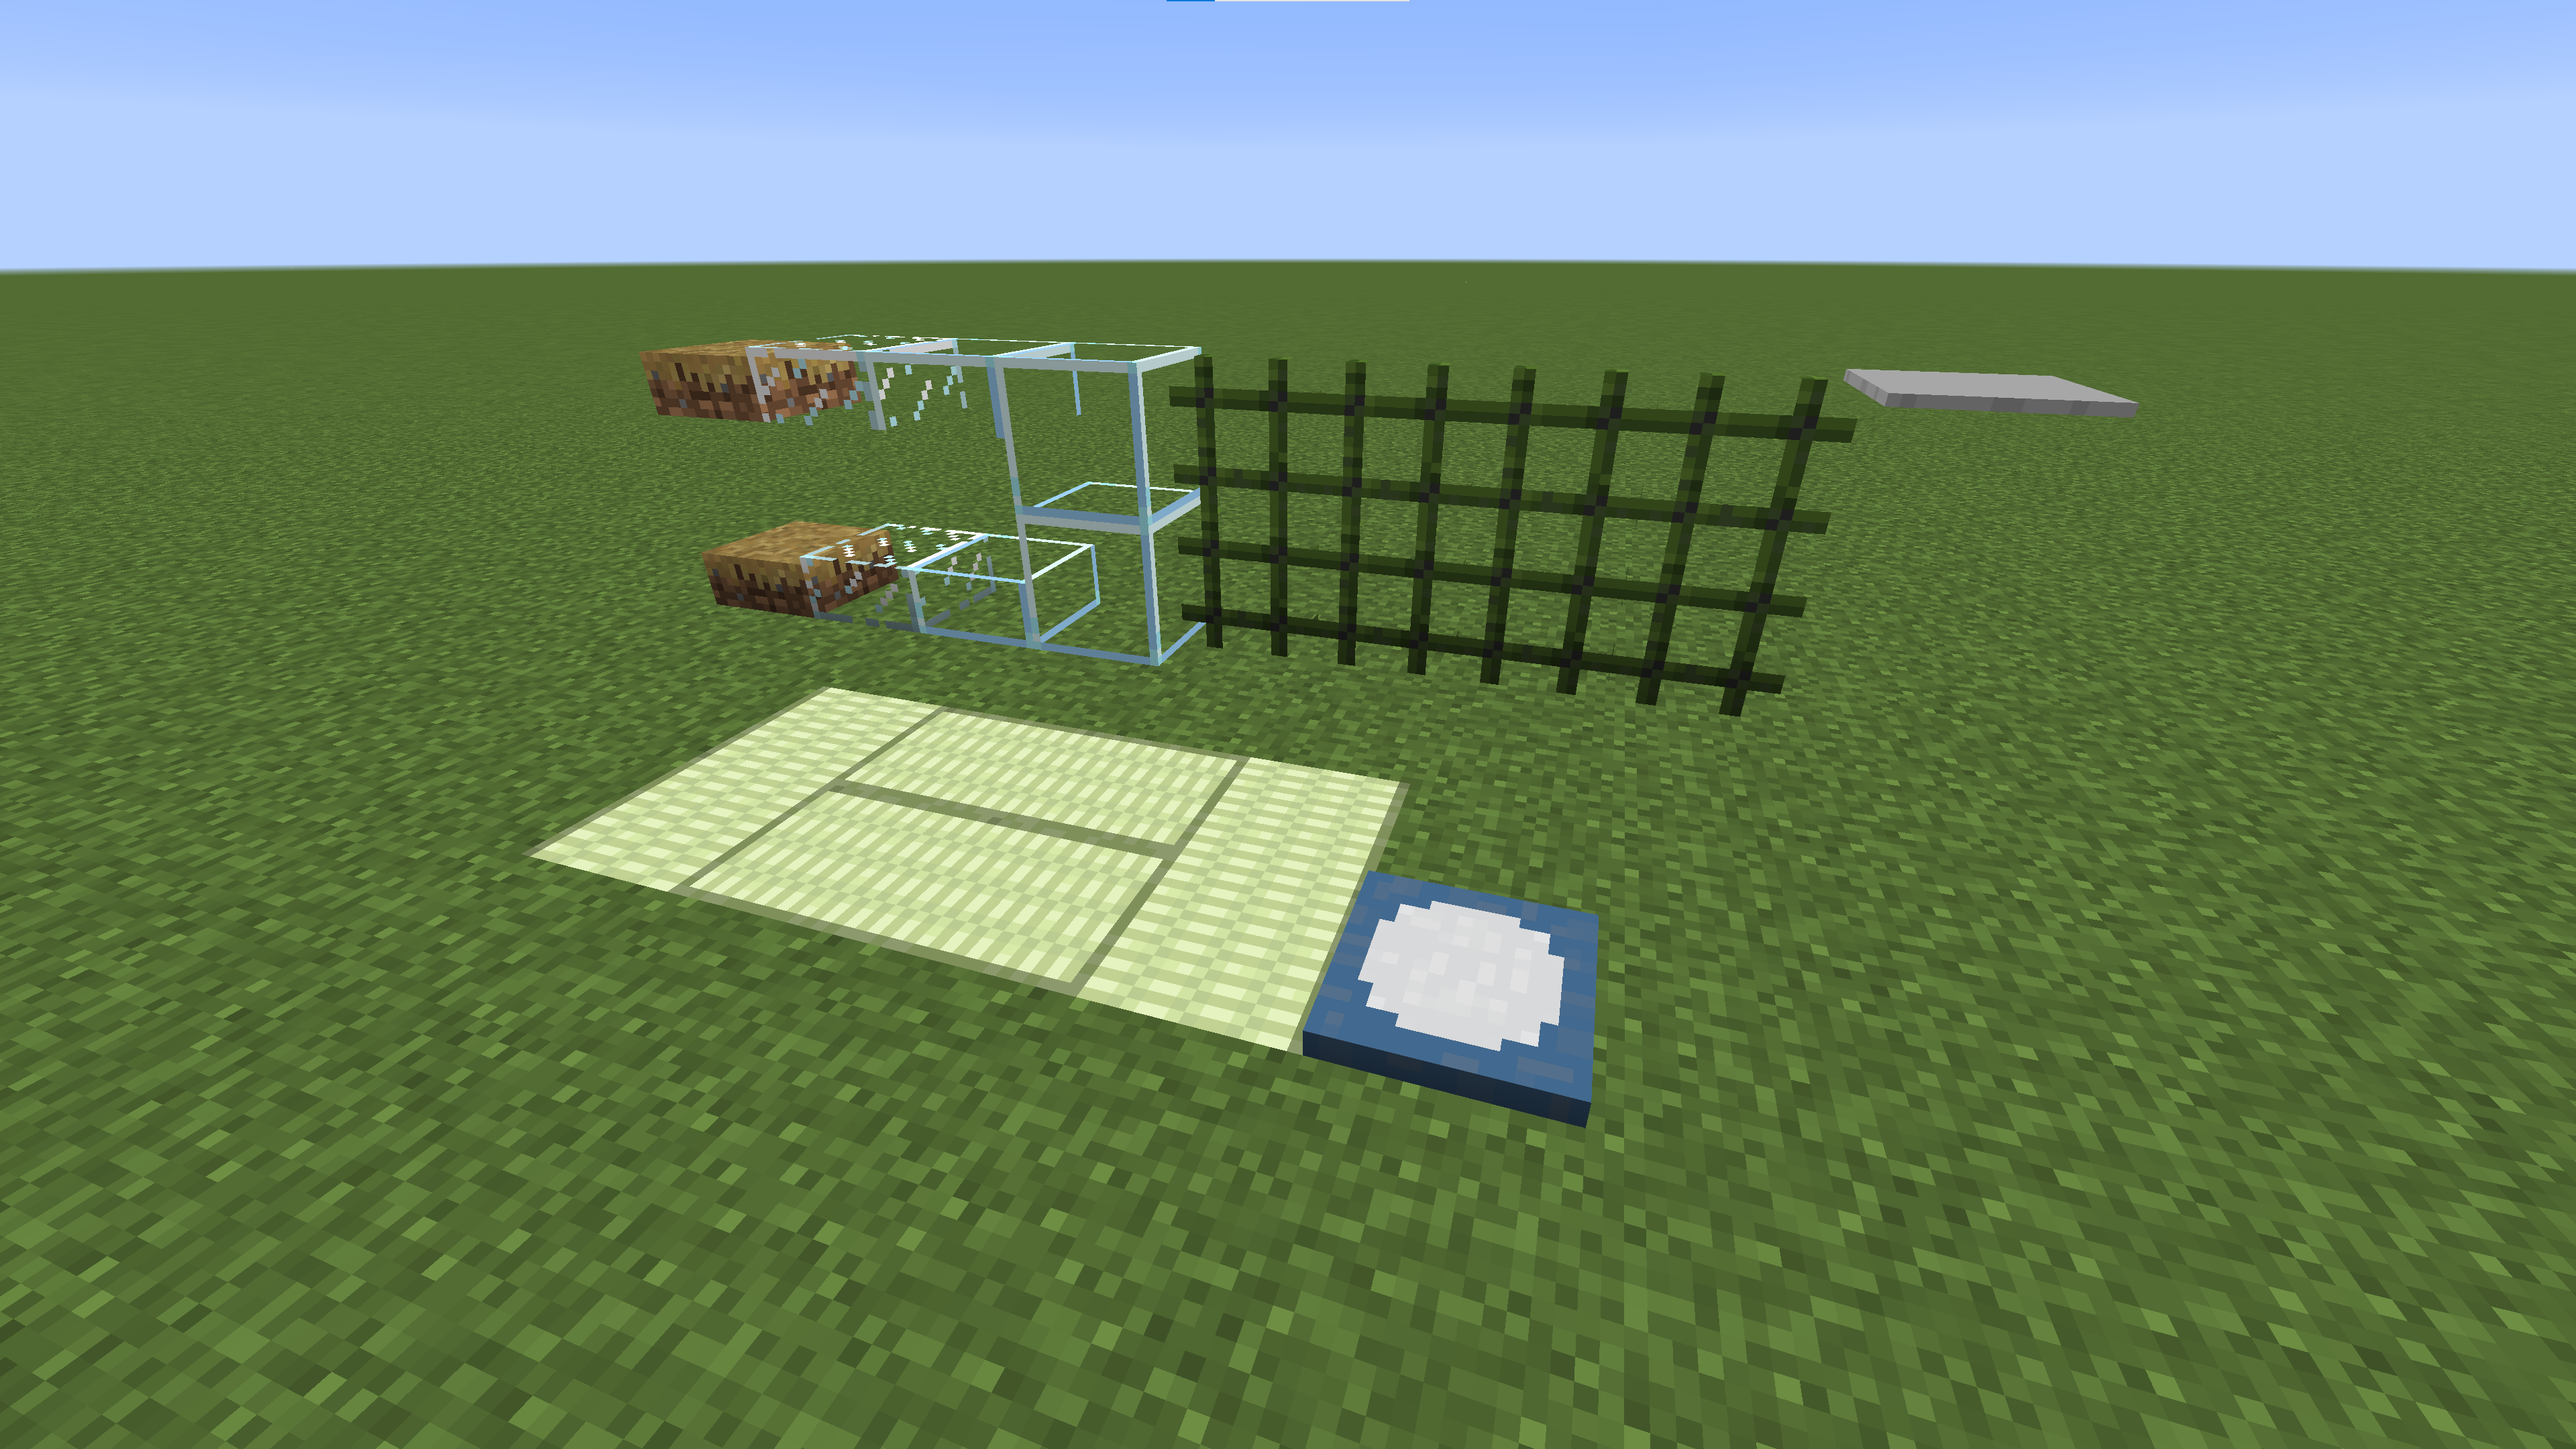
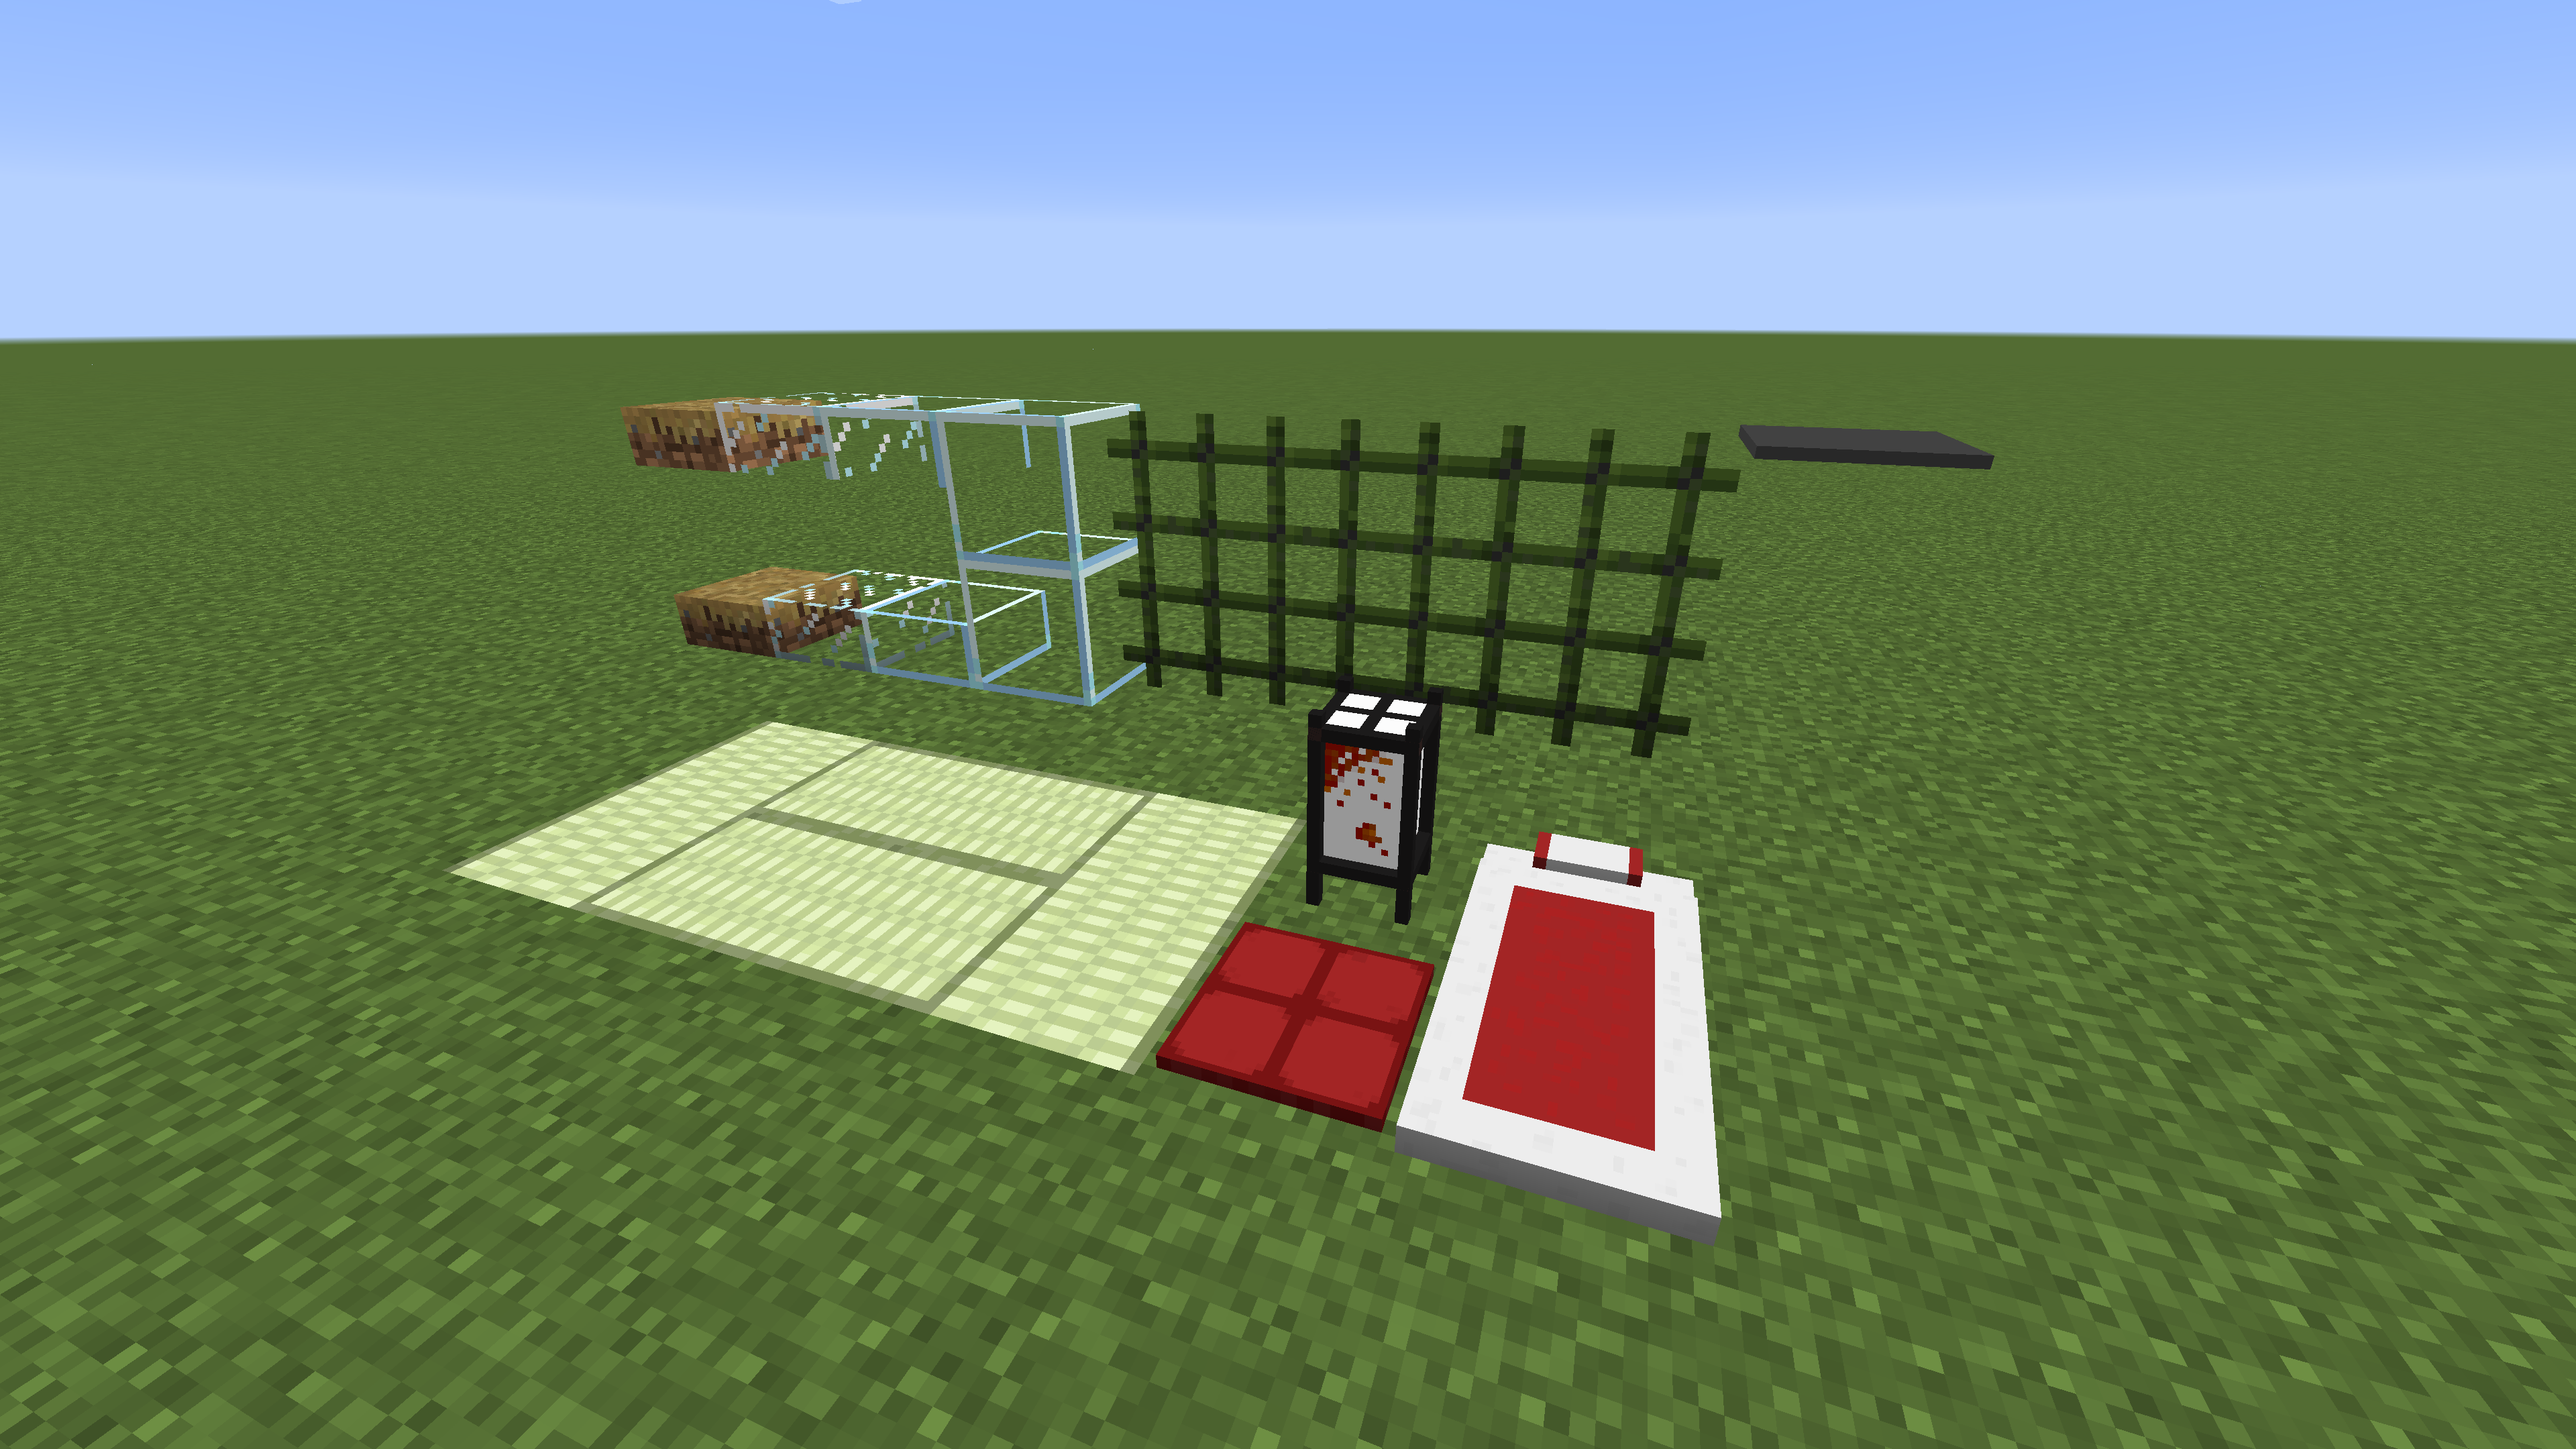
Add andon and update texture with lamp.

Changed region(s): [[0.0, 0.1551, 1.0, 1.0], [0.2812, 0.0931, 0.7188, 0.1241]]

diff --git a/src/main/java/network/nishi/interiorextensions/Blocks/BlockAndon.java b/src/main/java/network/nishi/interiorextensions/Blocks/BlockAndon.java
@@ -1,0 +1,91 @@
+package network.nishi.interiorextensions.Blocks;
+
+import net.minecraft.block.Block;
+import net.minecraft.block.SoundType;
+import net.minecraft.block.material.Material;
+import net.minecraft.block.properties.IProperty;
+import net.minecraft.block.properties.PropertyDirection;
+import net.minecraft.block.state.BlockStateContainer;
+import net.minecraft.block.state.IBlockState;
+import net.minecraft.creativetab.CreativeTabs;
+import net.minecraft.entity.Entity;
+import net.minecraft.entity.EntityLivingBase;
+import net.minecraft.util.BlockRenderLayer;
+import net.minecraft.util.EnumFacing;
+import net.minecraft.util.math.AxisAlignedBB;
+import net.minecraft.util.math.BlockPos;
+import net.minecraft.world.IBlockAccess;
+import net.minecraft.world.World;
+import net.minecraftforge.fml.relauncher.Side;
+import net.minecraftforge.fml.relauncher.SideOnly;
+import network.nishi.interiorextensions.InteriorExtension;
+
+import javax.annotation.Nullable;
+import java.util.List;
+
+public class BlockAndon extends Block {
+    public static final PropertyDirection FACING = PropertyDirection.create("facing", EnumFacing.Plane.HORIZONTAL);
+
+    public BlockAndon() {
+        super(Material.WOOD);
+        this.setRegistryName(InteriorExtension.MODID, "andon_block");
+        this.setCreativeTab(CreativeTabs.DECORATIONS);
+        this.setUnlocalizedName("andon_block");
+        this.setHardness(0.5f);
+        this.setLightLevel(1.0f);
+        this.setSoundType(SoundType.WOOD);
+        // Default Facing
+        this.setDefaultState(this.blockState.getBaseState().withProperty(FACING, EnumFacing.NORTH));
+    }
+
+
+    protected static final AxisAlignedBB AABB_BASE =
+            new AxisAlignedBB(0.25D, 0.0D, 0.25D, 0.75D, 1.0D, 0.75D);
+    protected static final AxisAlignedBB AABB_ZERO =
+            new AxisAlignedBB(0.0D, 0.0D, 0.0D, 0.0D, 0.0D, 0.0D);
+
+    @Override
+    public void addCollisionBoxToList(IBlockState state, World worldIn,
+                                      BlockPos pos, AxisAlignedBB entityBox, List<AxisAlignedBB> collidingBoxes,
+                                      @Nullable Entity entityIn, boolean p_185477_7_) {
+        addCollisionBoxToList(pos, entityBox, collidingBoxes, AABB_ZERO);
+    }
+
+    @Override
+    public AxisAlignedBB getBoundingBox(IBlockState state, IBlockAccess source, BlockPos pos) {
+        return AABB_BASE;
+    }
+
+    @Override
+    public boolean isFullCube(IBlockState state) {
+        return false;
+    }
+
+    @Override
+    public boolean isOpaqueCube(IBlockState state) {
+        return false;
+    }
+
+    @Override
+    public IBlockState getStateForPlacement(World worldIn, BlockPos pos, EnumFacing facing, float hitX, float hitY, float hitZ, int meta, EntityLivingBase placer) {
+        return this.getDefaultState().withProperty(FACING, placer.getHorizontalFacing().getOpposite().rotateY().rotateY());
+    }
+
+    // Create ItemStack metadata from IBlockState. It call when it drop and call texture model.
+    @Override
+    public int getMetaFromState(IBlockState state) {
+        return ((EnumFacing) state.getValue(FACING)).getHorizontalIndex();
+    }
+
+    // Create IBlockState from ItemStack metadata. It call when block placed.
+    @Override
+    public IBlockState getStateFromMeta(int meta) {
+        return this.getDefaultState().withProperty(FACING, EnumFacing.getHorizontal(meta));
+    }
+
+    // Create initialized BlockStateContainer.
+    @Override
+    protected BlockStateContainer createBlockState() {
+        return new BlockStateContainer(this, new IProperty[] { FACING });
+    }
+}

diff --git a/src/main/java/network/nishi/interiorextensions/InteriorExtension.java b/src/main/java/network/nishi/interiorextensions/InteriorExtension.java
@@ -43,6 +43,7 @@ public class InteriorExtension {
     public static final Block GLOW_GLASS_BLOCK = new BlockGlowGlass();
     public static final Block ZABUTON_BLOCK = new BlockZabuton();
     public static final Block FUTON_BLOCK = new BlockFuton();
+    public static final Block ANDON_BLOCK = new BlockAndon();
 
     public static BlockHalfGrassPath HALF_GRASS_PATH_BLOCK_HALF  = new BlockHalfGrassPath.Half("grasspath_slab", Material.PLANTS);
     public static BlockHalfGrassPath HALF_GRASS_PATH_BLOCK_DOUBLE = new BlockHalfGrassPath.Double("double_grasspath_slab", Material.PLANTS);
@@ -82,6 +83,7 @@ public class InteriorExtension {
         event.getRegistry().register(new ItemBlock(GLOW_GLASS_BLOCK).setRegistryName(MODID, "glow_glass_block"));
         event.getRegistry().register(new ItemBlock(ZABUTON_BLOCK).setRegistryName(MODID,"zabuton_block"));
         event.getRegistry().register(new ItemBlock(FUTON_BLOCK).setRegistryName(MODID, "futon_block"));
+        event.getRegistry().register(new ItemBlock(ANDON_BLOCK).setRegistryName(MODID, "andon_block"));
         event.getRegistry().register(new ItemSlab(HALF_GRASS_PATH_BLOCK_HALF, HALF_GRASS_PATH_BLOCK_HALF, HALF_GRASS_PATH_BLOCK_DOUBLE).setRegistryName(HALF_GRASS_PATH_BLOCK_HALF.getRegistryName()));
         event.getRegistry().register(new ItemSlab(HALF_GLASS_HALF, HALF_GLASS_HALF, HALF_GLASS_DOUBLE).setRegistryName(HALF_GLASS_HALF.getRegistryName()));
         event.getRegistry().register(new ItemSlab(HALF_GLOW_GLASS_HALF, HALF_GLOW_GLASS_HALF, HALF_GLOW_GLASS_DOUBLE).setRegistryName(HALF_GLOW_GLASS_HALF.getRegistryName()));
@@ -95,6 +97,7 @@ public class InteriorExtension {
         event.getRegistry().register(GLOW_GLASS_BLOCK);
         event.getRegistry().register(ZABUTON_BLOCK);
         event.getRegistry().register(FUTON_BLOCK);
+        event.getRegistry().register(ANDON_BLOCK);
         event.getRegistry().register(HALF_GRASS_PATH_BLOCK_HALF);
         event.getRegistry().register(HALF_GRASS_PATH_BLOCK_DOUBLE);
         event.getRegistry().register(HALF_GLASS_HALF);
@@ -112,6 +115,7 @@ public class InteriorExtension {
         ModelLoader.setCustomModelResourceLocation(Item.getItemFromBlock(GLOW_GLASS_BLOCK), 0, new ModelResourceLocation(new ResourceLocation( MODID, "glow_glass_block"), "inventory"));
         ModelLoader.setCustomModelResourceLocation(Item.getItemFromBlock(ZABUTON_BLOCK),0, new ModelResourceLocation(new ResourceLocation(MODID, "zabuton_block"),"inventory"));
         ModelLoader.setCustomModelResourceLocation(Item.getItemFromBlock(FUTON_BLOCK), 0, new ModelResourceLocation(new ResourceLocation(MODID, "futon_block"), "inventory"));
+        ModelLoader.setCustomModelResourceLocation(Item.getItemFromBlock(ANDON_BLOCK), 0, new ModelResourceLocation(new ResourceLocation(MODID, "andon_block"), "inventory"));
         ModelLoader.setCustomModelResourceLocation(Item.getItemFromBlock(HALF_GRASS_PATH_BLOCK_HALF), 0, new ModelResourceLocation(new ResourceLocation(MODID, "grasspath_slab"), "inventory"));
         ModelLoader.setCustomModelResourceLocation(Item.getItemFromBlock(HALF_GRASS_PATH_BLOCK_DOUBLE), 0, new ModelResourceLocation(new ResourceLocation(MODID, "double_grasspath_slab"), "inventory"));
         ModelLoader.setCustomModelResourceLocation(Item.getItemFromBlock(HALF_GLASS_HALF), 0, new ModelResourceLocation(new ResourceLocation(MODID, "glass_slab"), "inventory"));
